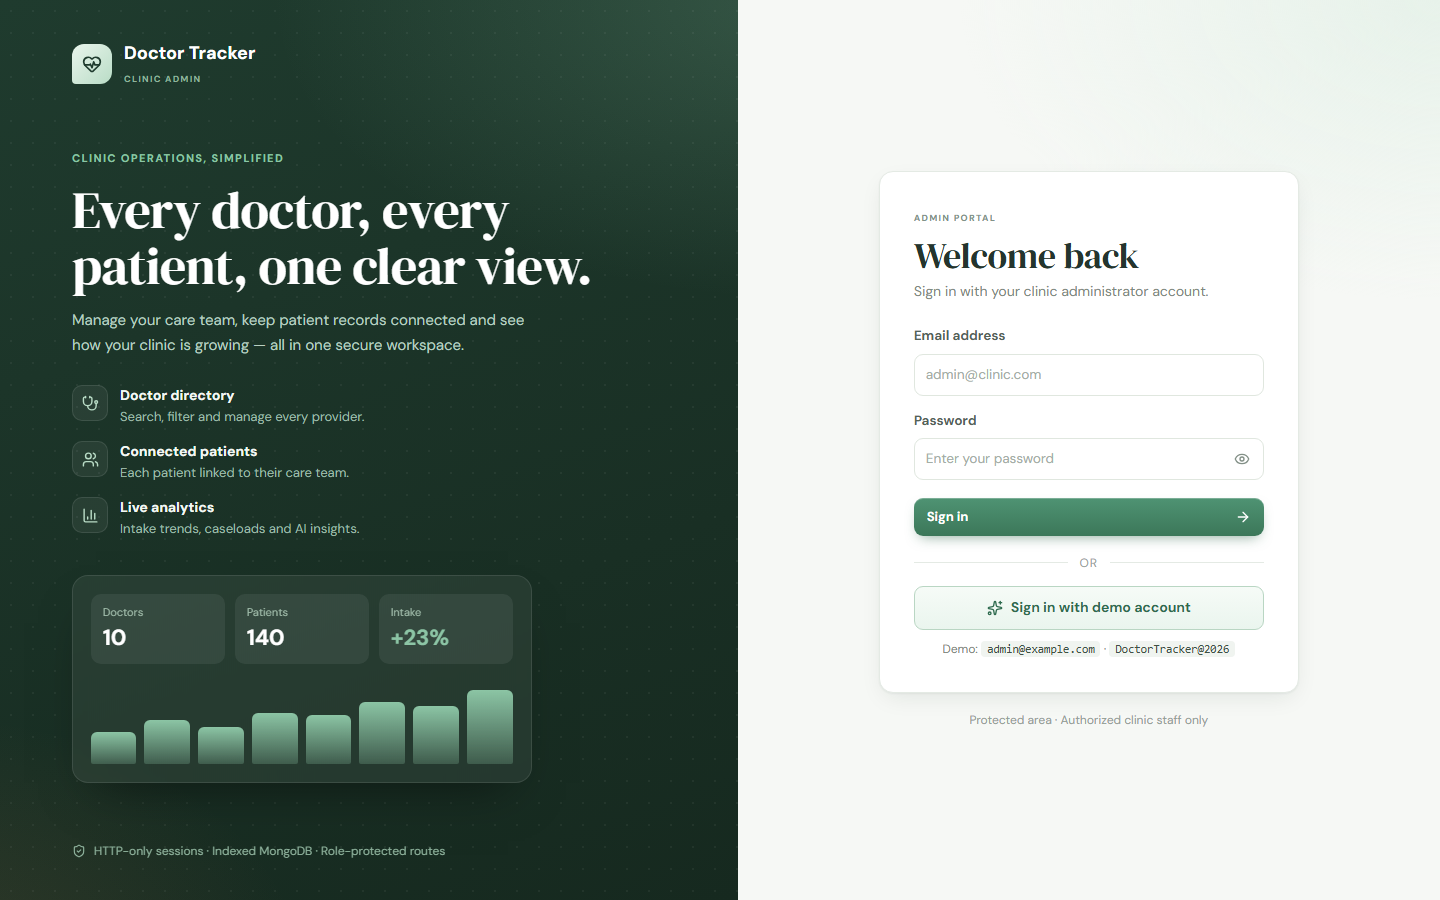
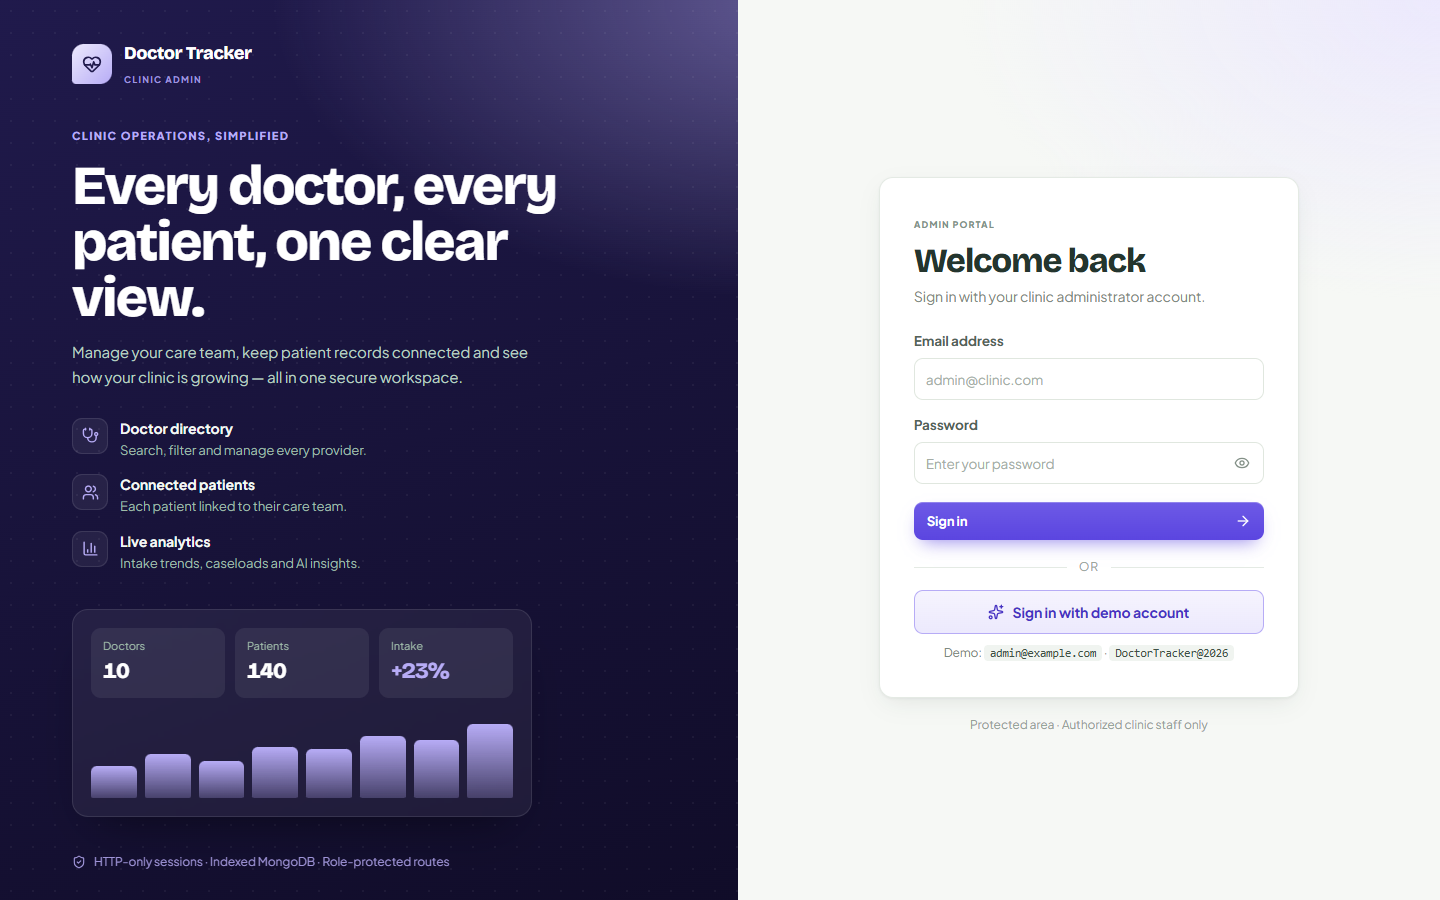
Bold typography and switchable color themes
- Bricolage Grotesque headings and Plus Jakarta Sans body text
- Forest, Ocean, Royal and Sunset themes built on CSS brand tokens,
  applied before first paint and remembered per browser
- Charts follow the active theme; refreshed screenshots

diff --git a/src/app/themes.css b/src/app/themes.css
@@ -1,0 +1,108 @@
+/* ===================== Themes & bold typography =====================
+   Each theme defines one brand ramp; every branded surface below reads it. Loaded last. */
+
+:root, [data-theme="forest"] {
+  --brand-950: #0e2018; --brand-900: #14281e; --brand-800: #1c3528; --brand-700: #2a5140;
+  --brand-600: #2f7d57; --brand-500: #3f8a66; --brand-300: #8cc5a5; --brand-100: #e3f2e8;
+  --brand-50: #f2f8f4; --brand-ink: #1f5a3f; --brand-glow: rgb(140 197 165 / 45%);
+}
+[data-theme="ocean"] {
+  --brand-950: #071226; --brand-900: #0b1a33; --brand-800: #0f2546; --brand-700: #1b4580;
+  --brand-600: #2563d9; --brand-500: #3474e0; --brand-300: #8db8f5; --brand-100: #e2ecfc;
+  --brand-50: #f2f6fd; --brand-ink: #1d4ea8; --brand-glow: rgb(141 184 245 / 45%);
+}
+[data-theme="royal"] {
+  --brand-950: #100c28; --brand-900: #171236; --brand-800: #201a4c; --brand-700: #3c3190;
+  --brand-600: #5b45e0; --brand-500: #6d5ae6; --brand-300: #b7acf6; --brand-100: #ece9fd;
+  --brand-50: #f6f4fe; --brand-ink: #4733c2; --brand-glow: rgb(183 172 246 / 45%);
+}
+[data-theme="sunset"] {
+  --brand-950: #22060f; --brand-900: #2e0a18; --brand-800: #3d1024; --brand-700: #741f43;
+  --brand-600: #c7325a; --brand-500: #d4456b; --brand-300: #f4a6b8; --brand-100: #fde7ec;
+  --brand-50: #fef4f6; --brand-ink: #a52549; --brand-glow: rgb(244 166 184 / 45%);
+}
+:root { --chart-accent: var(--brand-500); --chart-soft: var(--brand-300); }
+
+/* ---------- Bold typography ---------- */
+body { font-family: var(--font-sans), system-ui, sans-serif; letter-spacing: -0.005em; }
+.page-heading h1, .doctor-hero h1, .login-card h2, .modal-header h2, .hero h1, .auth-copy h1 {
+  font-family: var(--font-display), var(--font-sans), sans-serif; font-weight: 800; letter-spacing: -0.035em;
+}
+.page-heading h1 { font-size: 40px; }
+.hero h1 { font-size: clamp(34px, 3.6vw, 48px); }
+.auth-copy h1 { font-size: clamp(36px, 3.8vw, 56px); line-height: 1.02; }
+.login-card h2 { font-size: 34px; }
+.panel-heading h2 { font-family: var(--font-display), sans-serif; font-size: 17px; font-weight: 700; letter-spacing: -0.02em; }
+.stat-value, .donut-center strong, .doctor-stats dd, .chart-summary strong, .preview-stats strong {
+  font-family: var(--font-display), sans-serif; font-weight: 800; letter-spacing: -0.04em;
+}
+.stat-value { font-size: 38px; }
+.brand-copy strong, .auth-brand strong { font-family: var(--font-display), sans-serif; font-weight: 800; letter-spacing: -0.02em; }
+.section-kicker, .panel-kicker, .auth-eyebrow, .login-overline, .hero-side-label, .palette-group { font-weight: 800; letter-spacing: 0.12em; }
+.nav-button { font-weight: 600; }
+.nav-button.is-active { font-weight: 750; }
+.button-primary, .button-secondary, .button-danger, .hero-button, .demo-button { font-weight: 700; }
+.person-cell strong, .person-link, .palette-text strong, .insight strong { font-weight: 700; }
+th { font-weight: 800; letter-spacing: 0.08em; }
+
+/* ---------- Branded surfaces ---------- */
+body { background: radial-gradient(1400px 700px at 100% -10%, var(--brand-100) 0%, transparent 55%), var(--paper); background-attachment: fixed; }
+:focus-visible { outline-color: var(--brand-300); }
+.heading-period, .hero-dot { color: var(--brand-500); }
+
+@media (min-width: 821px) {
+  .sidebar { background: linear-gradient(180deg, var(--brand-800) 0%, var(--brand-950) 100%); }
+  .sidebar .brand-mark { color: var(--brand-800); background: linear-gradient(135deg, var(--brand-100), var(--brand-300)); }
+  .sidebar .brand-copy small, .workspace-label, .profile-row > svg, .profile-copy small { color: var(--brand-300); opacity: .85; }
+  .nav-button { color: rgb(255 255 255 / 68%); }
+  .nav-button.is-active { color: #fff; background: linear-gradient(90deg, color-mix(in srgb, var(--brand-300) 26%, transparent), color-mix(in srgb, var(--brand-300) 6%, transparent)); box-shadow: inset 3px 0 0 var(--brand-300); }
+  .avatar-sage { color: var(--brand-800); background: var(--brand-100); }
+}
+@media (max-width: 820px) {
+  .nav-button.is-active { color: var(--brand-ink); background: var(--brand-100); }
+}
+
+.hero { background: linear-gradient(135deg, var(--brand-900) 0%, var(--brand-700) 58%, var(--brand-600) 130%); }
+.hero-glow { background: radial-gradient(circle, var(--brand-glow), transparent 65%); }
+.hero-button-primary, .hero-segmented button.is-active { color: var(--brand-800); }
+.hero-date, .hero p, .hero-kbd, .hero-side-label, .hero-sync { color: color-mix(in srgb, var(--brand-100) 82%, transparent); }
+
+.button-primary { background: linear-gradient(180deg, var(--brand-500) 0%, var(--brand-600) 100%); box-shadow: 0 1px 0 rgb(255 255 255 / 25%) inset, 0 8px 18px -8px color-mix(in srgb, var(--brand-600) 70%, transparent); }
+.button-primary:hover { background: linear-gradient(180deg, var(--brand-600) 0%, var(--brand-700) 100%); }
+.segmented button.is-active, .page-number.is-current { color: #fff; border-color: transparent; background: linear-gradient(180deg, var(--brand-500), var(--brand-600)); }
+
+.panel-inline-link, .patient-count-link, a.table-doctor, .chart-footnote button, .panel-link, .back-link:hover, .person-link:hover, .clear-filters:hover, .insights-kicker, .insights-error button { color: var(--brand-ink); }
+.specialty-pill { color: var(--brand-ink); background: var(--brand-100); }
+.select-control.is-set, .date-control.is-set, .filters-toggle.is-set { border-color: var(--brand-300); background: var(--brand-50); }
+.select-control.is-set select, .filters-toggle.is-set { color: var(--brand-ink); }
+.filters-count { background: var(--brand-600); }
+.search-field:focus-within, .search-trigger:hover { border-color: var(--brand-300); box-shadow: 0 0 0 3px var(--brand-100); }
+tbody tr:hover, .table-panel thead { background: var(--brand-50); }
+.condition-track span, .rank-bar span { background: var(--brand-500); }
+.empty-state-icon, .empty-chart-icon, .toast-success .toast-check { color: var(--brand-600); background: var(--brand-100); }
+.stat-forest { --tone: var(--brand-500); --tone-soft: var(--brand-100); }
+.insights-panel { border-color: color-mix(in srgb, var(--brand-300) 45%, #e4eae4); background: linear-gradient(135deg, #fff 0%, var(--brand-50) 60%, #f4f7fb 100%); }
+.palette-icon { color: var(--brand-600); background: var(--brand-100); }
+.palette-item.is-active { background: var(--brand-50); }
+.palette-arrow { color: var(--brand-600); }
+.palette-spinner { border-top-color: var(--brand-500); }
+
+/* Login */
+.auth-showcase { background: radial-gradient(900px 500px at 110% 0%, var(--brand-glow), transparent 60%), linear-gradient(160deg, var(--brand-800) 0%, var(--brand-950) 100%); }
+.auth-mark { color: var(--brand-800); background: linear-gradient(135deg, var(--brand-100), var(--brand-300)); }
+.auth-eyebrow, .preview-stats .preview-up, .auth-features li > span { color: var(--brand-300); }
+.auth-brand small, .auth-footer { color: color-mix(in srgb, var(--brand-300) 85%, transparent); }
+.preview-bars span { background: linear-gradient(180deg, var(--brand-300), color-mix(in srgb, var(--brand-300) 25%, transparent)); }
+.auth-panel { background: radial-gradient(800px 500px at 100% 0%, var(--brand-100) 0%, transparent 60%), var(--paper); }
+.demo-button { color: var(--brand-ink); border-color: var(--brand-300); background: linear-gradient(180deg, var(--brand-50), var(--brand-100)); }
+.demo-button:hover { border-color: var(--brand-500); }
+
+/* ---------- Theme switcher ---------- */
+.theme-switcher { position: relative; }
+.theme-menu { position: absolute; right: 0; top: calc(100% + 8px); z-index: 30; width: 210px; padding: 8px; border: 1px solid #e4eae4; border-radius: 14px; background: #fff; box-shadow: 0 18px 40px -16px rgb(16 30 23 / 35%); animation: palette-in .16s ease both; }
+.theme-menu-title { display: block; padding: 6px 8px 8px; color: #94a097; font-size: 11px; font-weight: 800; letter-spacing: .12em; text-transform: uppercase; }
+.theme-option { width: 100%; display: flex; align-items: center; gap: 10px; padding: 8px; color: #34463b; border: 0; border-radius: 10px; background: transparent; font-size: 13.5px; font-weight: 650; cursor: pointer; }
+.theme-option:hover, .theme-option.is-active { background: #f3f5f3; }
+.theme-swatch { display: inline-flex; overflow: hidden; width: 42px; height: 22px; border-radius: 7px; box-shadow: inset 0 0 0 1px rgb(0 0 0 / 8%); }
+.theme-swatch i { flex: 1; }
+.theme-check { margin-left: auto; color: var(--brand-600); }

diff --git a/src/components/layout/theme-switcher.tsx b/src/components/layout/theme-switcher.tsx
@@ -1,0 +1,62 @@
+"use client";
+
+import { Check, Palette } from "lucide-react";
+import { useEffect, useRef, useState } from "react";
+import { THEME_STORAGE_KEY, themes, type ThemeId } from "@/lib/themes";
+
+function currentTheme(): ThemeId {
+  const value = document.documentElement.dataset.theme;
+  return (themes.find((theme) => theme.id === value)?.id ?? "forest") as ThemeId;
+}
+
+export function ThemeSwitcher() {
+  const [open, setOpen] = useState(false);
+  const [active, setActive] = useState<ThemeId>("forest");
+  const ref = useRef<HTMLDivElement>(null);
+
+  useEffect(() => {
+    const frame = requestAnimationFrame(() => setActive(currentTheme()));
+    return () => cancelAnimationFrame(frame);
+  }, []);
+
+  useEffect(() => {
+    if (!open) return;
+    const onPointer = (event: PointerEvent) => { if (!ref.current?.contains(event.target as Node)) setOpen(false); };
+    const onKey = (event: KeyboardEvent) => { if (event.key === "Escape") setOpen(false); };
+    document.addEventListener("pointerdown", onPointer);
+    document.addEventListener("keydown", onKey);
+    return () => {
+      document.removeEventListener("pointerdown", onPointer);
+      document.removeEventListener("keydown", onKey);
+    };
+  }, [open]);
+
+  function choose(id: ThemeId) {
+    document.documentElement.setAttribute("data-theme", id);
+    try { localStorage.setItem(THEME_STORAGE_KEY, id); } catch { /* storage unavailable: theme still applies for this visit */ }
+    setActive(id);
+    setOpen(false);
+  }
+
+  return (
+    <div className="theme-switcher" ref={ref}>
+      <button className="help-button" onClick={() => setOpen((value) => !value)} aria-label="Change theme" aria-expanded={open} title="Theme">
+        <Palette size={17} />
+      </button>
+      {open && (
+        <div className="theme-menu" role="menu" aria-label="Theme">
+          <span className="theme-menu-title">Theme</span>
+          {themes.map((theme) => (
+            <button key={theme.id} role="menuitemradio" aria-checked={active === theme.id} className={`theme-option${active === theme.id ? " is-active" : ""}`} onClick={() => choose(theme.id)}>
+              <span className="theme-swatch" aria-hidden>
+                {theme.swatch.map((color) => <i key={color} style={{ background: color }} />)}
+              </span>
+              <span>{theme.label}</span>
+              {active === theme.id && <Check size={15} className="theme-check" />}
+            </button>
+          ))}
+        </div>
+      )}
+    </div>
+  );
+}

diff --git a/src/app/layout.tsx b/src/app/layout.tsx
@@ -1,19 +1,22 @@
 import type { Metadata, Viewport } from "next";
-import { DM_Sans, DM_Serif_Display } from "next/font/google";
+import { Bricolage_Grotesque, Plus_Jakarta_Sans } from "next/font/google";
 import { Providers } from "@/components/providers";
+import { THEME_STORAGE_KEY, themes } from "@/lib/themes";
 import "./globals.css";
 import "./app.css";
 import "./experience.css";
+import "./themes.css";
 
-const dmSans = DM_Sans({
+const jakarta = Plus_Jakarta_Sans({
   variable: "--font-sans",
   subsets: ["latin"],
+  weight: ["400", "500", "600", "700", "800"],
 });
 
-const dmSerif = DM_Serif_Display({
+const bricolage = Bricolage_Grotesque({
   variable: "--font-display",
   subsets: ["latin"],
-  weight: "400",
+  weight: ["500", "600", "700", "800"],
 });
 
 export const metadata: Metadata = {
@@ -21,11 +24,17 @@ export const metadata: Metadata = {
   description: "A secure workspace for managing doctors, patients and clinic analytics.",
 };
 
-export const viewport: Viewport = { themeColor: "#548c72" };
+export const viewport: Viewport = { themeColor: "#1f3b2e" };
+
+// Applies the saved theme before first paint so the page never flashes the default colors.
+const themeScript = `try{var t=localStorage.getItem(${JSON.stringify(THEME_STORAGE_KEY)});if(${JSON.stringify(themes.map((theme) => theme.id))}.indexOf(t)>-1)document.documentElement.dataset.theme=t}catch(e){}`;
 
 export default function RootLayout({ children }: LayoutProps<"/">) {
   return (
-    <html lang="en" className={`${dmSans.variable} ${dmSerif.variable}`}>
+    <html lang="en" data-theme="forest" className={`${jakarta.variable} ${bricolage.variable}`} suppressHydrationWarning>
+      <head>
+        <script dangerouslySetInnerHTML={{ __html: themeScript }} />
+      </head>
       <body><Providers>{children}</Providers></body>
     </html>
   );

diff --git a/src/components/layout/app-shell.tsx b/src/components/layout/app-shell.tsx
@@ -10,6 +10,7 @@ import { initials } from "@/lib/format";
 import { useSession } from "@/lib/queries";
 import { PageSkeleton } from "../ui/feedback";
 import { CommandPalette } from "./command-palette";
+import { ThemeSwitcher } from "./theme-switcher";
 
 const navItems = [
   { href: "/dashboard", label: "Dashboard", icon: LayoutDashboard },
@@ -90,6 +91,7 @@ export function AppShell({ children }: { children: ReactNode }) {
             <button className="search-trigger" onClick={() => window.dispatchEvent(new Event("open-command-palette"))} aria-label="Search (Ctrl+K)">
               <Search size={15} /><span>Search…</span><kbd>Ctrl K</kbd>
             </button>
+            <ThemeSwitcher />
             <span className="topbar-divider" />
             <button className="help-button" onClick={signOut} aria-label="Sign out" title="Sign out"><LogOut size={17} /></button>
           </div>

diff --git a/src/components/dashboard/charts.tsx b/src/components/dashboard/charts.tsx
@@ -7,8 +7,9 @@ import {
 import type { DashboardData, PatientStatus } from "@/lib/types";
 
 // Single-series charts use the brand accent; the status donut uses validated categorical slots 1–3.
-const ACCENT = "#3f8a66";
-const ACCENT_SOFT = "#7fb39a";
+// Theme tokens from app/themes.css; SVG presentation attributes resolve CSS variables.
+const ACCENT = "var(--chart-accent, #3f8a66)";
+const ACCENT_SOFT = "var(--chart-soft, #7fb39a)";
 export const STATUS_COLORS: Record<PatientStatus, string> = { Active: "#2a78d6", "Follow-up": "#eb6834", Recovered: "#1baf7a" };
 const axisTick = { fill: "#7a867e", fontSize: 11 };
 const tooltipStyle = { border: "1px solid #e6ebe5", borderRadius: 8, fontSize: 12, boxShadow: "0 6px 20px #2c3e3314" };

diff --git a/src/lib/themes.ts b/src/lib/themes.ts
@@ -1,0 +1,11 @@
+export const THEME_STORAGE_KEY = "doctor-tracker-theme";
+
+/** Swatch colors mirror the --brand-* tokens in app/themes.css. */
+export const themes = [
+  { id: "forest", label: "Forest", swatch: ["#1d3529", "#3f8a66", "#8cc5a5"] },
+  { id: "ocean", label: "Ocean", swatch: ["#0f2340", "#2f6fd6", "#8db8f5"] },
+  { id: "royal", label: "Royal", swatch: ["#1e1846", "#6d5ae6", "#b7acf6"] },
+  { id: "sunset", label: "Sunset", swatch: ["#3a1022", "#d4456b", "#f4a6b8"] },
+] as const;
+
+export type ThemeId = (typeof themes)[number]["id"];

diff --git a/README.md b/README.md
@@ -18,6 +18,7 @@ Doctor Tracker is a secure admin workspace where clinic administrators manage do
 - **Patients.** A dedicated register with search, filters for condition, status, doctor and date range, pagination, edit and delete.
 - **Dashboard.** Shows total doctors and total patients, new patients in the selected range, and average caseload. Charts cover new patients per month, doctors added per month, patients per doctor and care-status distribution, plus top conditions and specialties. The date range is selectable (3, 6 or 12 months). Every chart links into the filtered list behind it.
 - **AI insights (optional).** When a free Google Gemini key is configured, the dashboard shows 3 or 4 plain-language insights, such as caseload imbalance, intake trends and status mix. They are generated on the server from aggregate counts only, with no patient-level data, and cached for 10 minutes. A second model is tried if the first is busy. Without a key, the card is simply hidden.
+- **Themes and typography.** Four color themes (Forest, Ocean, Royal, Sunset) driven by CSS design tokens and applied before first paint, with Bricolage Grotesque headings and Plus Jakarta Sans body text.
 - **Signature UX.** A dashboard hero with a time-of-day greeting and quick actions, animated stat cards with sparklines and month-over-month change, a Ctrl/⌘+K command palette that searches doctors and patients from anywhere, smooth page transitions, and a one-click demo sign-in.
 - **UX.** Filters live in the URL, so views can be shared, survive a refresh and work with the back button. Search is debounced. The previous page stays visible while the next one loads, and loading skeletons, empty states, error states with retry, confirmation dialogs and toasts are built in. On phones the sidebar becomes a bottom tab bar and tables become stacked cards.
 
@@ -185,6 +186,14 @@ List counts run in parallel with the page query (`Promise.all`). Patient counts 
 | ![Doctor detail, desktop](public/screenshots/desktop-doctor-detail.png) | ![Patients, mobile](public/screenshots/mobile-patients.png) |
 | ![Patients, desktop](public/screenshots/desktop-patients.png) | ![Login, mobile](public/screenshots/mobile-login.png) |
 | ![Command palette (Ctrl+K), desktop](public/screenshots/desktop-palette.png) | ![Login, desktop](public/screenshots/desktop-login.png) |
+
+**Themes** (switch from the palette icon in the top bar; the choice is remembered per browser):
+
+| Forest | Ocean |
+|---|---|
+| ![Forest theme](public/screenshots/theme-forest.png) | ![Ocean theme](public/screenshots/theme-ocean.png) |
+| **Royal** | **Sunset** |
+| ![Royal theme](public/screenshots/theme-royal.png) | ![Sunset theme](public/screenshots/theme-sunset.png) |
 
 ## Deployment
 
